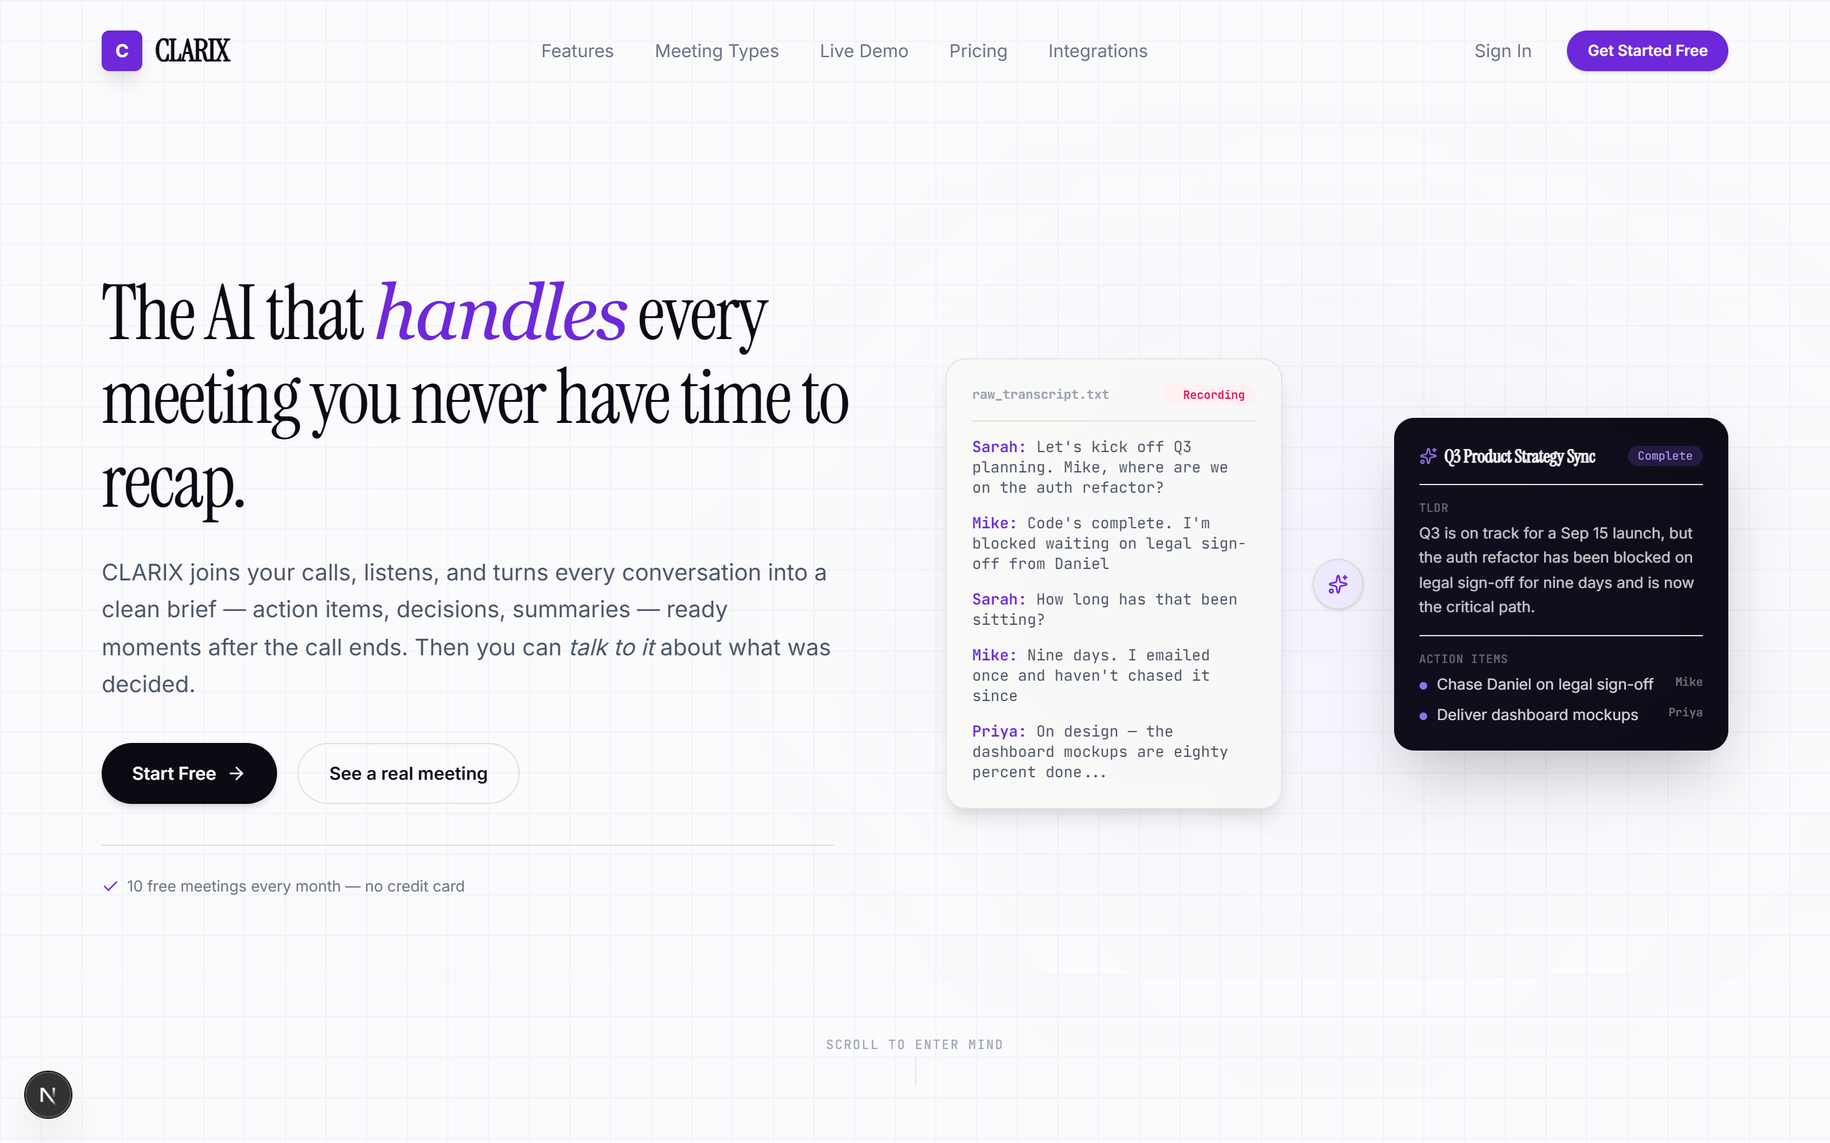
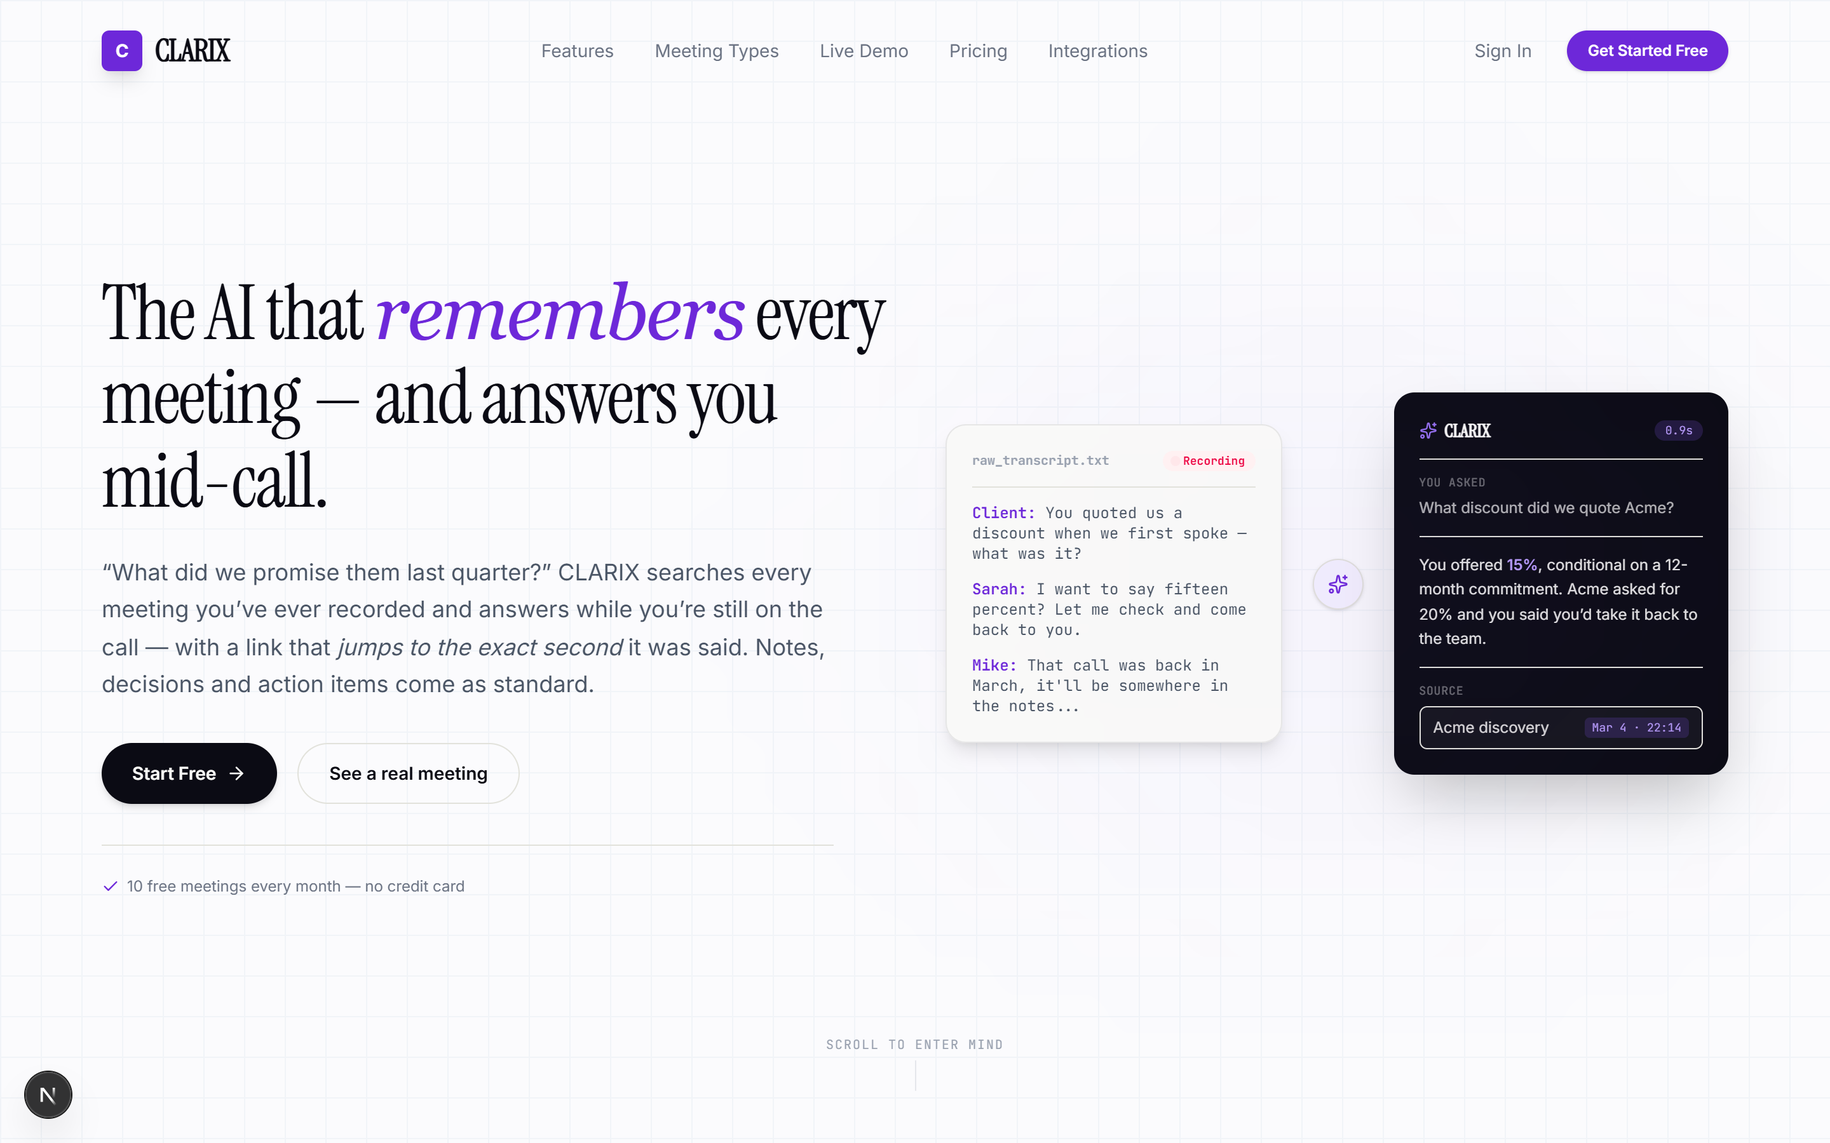
feat(marketing): lead with cross-meeting memory, not note-taking
Search "AI meeting notes without a bot" and the first page is Granola, Jamie,
Fellow and Krisp — all funded, all botless, all writing good summaries of the
call you are in. Both things the site led with were therefore worthless as
positioning: "no bot required" is a 2026 category convention, and "adapts to
every meeting type" describes a feature in a market where good summaries are
assumed. We were introducing ourselves with the one sentence four better-funded
competitors also say.

The thing none of them do is answer a question about a meeting from months ago
while you are still on the call, with a link that jumps to the second it was
said. That is already built and verified working end to end — the citation click
lands on the right moment. It was buried under the notetaker pitch.

Homepage now leads on it. The headline swaps "handles" for "remembers", the
subhead opens with the question a notetaker cannot answer, and the hero mock
demonstrates rather than describes: a client asks about a discount, nobody in
the room remembers, and CLARIX answers from a call in March with a
"Mar 4 - 22:14" source chip. The timestamp is the part rivals cannot copy — an
AI answer you cannot check is a liability when you are about to repeat it to a
client.

Metadata follows, since that is what search results and link previews show.

Product Hunt kit rewritten on the same claim. It now names the competitors
directly rather than pretending the category is empty, opens the maker comment
[…]

diff --git a/components/landing/zones/HeroZone.tsx b/components/landing/zones/HeroZone.tsx
@@ -33,11 +33,17 @@ export default function HeroZone() {
       {/* Main Hero Copy - Linked to fade out in Phase 0 */}
       <div className="hero-overlay-text w-full max-w-7xl mx-auto grid lg:grid-cols-12 gap-12 items-center my-auto z-20 pt-16">
         <div className="lg:col-span-6 flex flex-col items-start text-left">
+          {/* Positioned on cross-meeting memory, not note-taking. Every rival in
+              this category — Granola, Jamie, Fellow, Krisp — already writes good
+              botless summaries of the call you are in, so leading with that is
+              leading with the thing four funded competitors also say. What none
+              of them do is answer a question from meetings months old, mid-call,
+              with a link to the second it was said. */}
           <h1 className="font-display text-4xl sm:text-5xl lg:text-6xl font-normal leading-[1.1] tracking-tight text-ink">
-            The AI that <span className="italic text-violet-600 font-serif">handles</span> every meeting you never have time to recap.
+            The AI that <span className="italic text-violet-600 font-serif">remembers</span> every meeting — and answers you mid-call.
           </h1>
           <p className="mt-6 text-base sm:text-lg text-gray-600 leading-relaxed max-w-xl">
-            CLARIX joins your calls, listens, and turns every conversation into a clean brief — action items, decisions, summaries — ready moments after the call ends. Then you can <span className="italic">talk to it</span> about what was decided.
+            &ldquo;What did we promise them last quarter?&rdquo; CLARIX searches every meeting you&rsquo;ve ever recorded and answers while you&rsquo;re still on the call — with a link that <span className="italic">jumps to the exact second</span> it was said. Notes, decisions and action items come as standard.
           </p>
           <div className="mt-8 flex flex-wrap gap-4">
             <Link href="/sign-up" className="inline-flex items-center gap-2 bg-ink hover:bg-ink-2 text-paper text-sm font-semibold px-6 h-12 rounded-full shadow-md transition-all group">
@@ -69,16 +75,13 @@ export default function HeroZone() {
                 Recording
               </span>
             </div>
-            {/* Taken from the opening of the meeting at /demo — the "See a
-                real meeting" button sits right below this, so what it teases
-                has to be what it lands on. Keep in sync with
-                lib/site/sampleMeeting.ts. */}
+            {/* The moment the product exists for: a question nobody in the room
+                can answer, about a meeting months ago. The card to the right is
+                CLARIX answering it before the call moves on. */}
             <div className="space-y-3 text-gray-600">
-              <p><span className="text-violet-600 font-semibold">Sarah:</span> Let's kick off Q3 planning. Mike, where are we on the auth refactor?</p>
-              <p><span className="text-violet-600 font-semibold">Mike:</span> Code's complete. I'm blocked waiting on legal sign-off from Daniel</p>
-              <p><span className="text-violet-600 font-semibold">Sarah:</span> How long has that been sitting?</p>
-              <p><span className="text-violet-600 font-semibold">Mike:</span> Nine days. I emailed once and haven't chased it since</p>
-              <p><span className="text-violet-600 font-semibold">Priya:</span> On design — the dashboard mockups are eighty percent done...</p>
+              <p><span className="text-violet-600 font-semibold">Client:</span> You quoted us a discount when we first spoke — what was it?</p>
+              <p><span className="text-violet-600 font-semibold">Sarah:</span> I want to say fifteen percent? Let me check and come back to you.</p>
+              <p><span className="text-violet-600 font-semibold">Mike:</span> That call was back in March, it'll be somewhere in the notes...</p>
             </div>
           </div>
 
@@ -87,40 +90,37 @@ export default function HeroZone() {
             <Sparkles className="w-4 h-4 text-violet-600" />
           </div>
 
-          {/* Structured CLARIX Brief */}
+          {/* The overlay answering from a meeting five months back, while the
+              call above is still running. The timestamp chip is the part rivals
+              cannot copy: the answer is checkable, not just plausible. */}
           <div className="w-full max-w-[300px] p-5 rounded-2xl bg-ink text-paper shadow-2xl flex flex-col text-xs">
             <div className="flex items-center justify-between border-b border-paper/10 pb-3 mb-3">
               <span className="font-semibold text-paper flex items-center gap-1.5 font-display text-sm">
                 <Sparkles className="w-3.5 h-3.5 text-violet-400" />
-                Q3 Product Strategy Sync
+                CLARIX
               </span>
               <span className="bg-violet-500/20 text-violet-300 px-2 py-0.5 rounded-full text-[9px] font-mono">
-                Complete
+                0.9s
               </span>
             </div>
             <div className="space-y-3">
               <div>
-                <span className="text-[9px] font-mono text-paper/40 uppercase tracking-wider block mb-1">TLDR</span>
-                <p className="text-paper/80 leading-relaxed">Q3 is on track for a Sep 15 launch, but the auth refactor has been blocked on legal sign-off for nine days and is now the critical path.</p>
+                <span className="text-[9px] font-mono text-paper/40 uppercase tracking-wider block mb-1">You asked</span>
+                <p className="text-paper/70 leading-relaxed">What discount did we quote Acme?</p>
               </div>
               <div className="border-t border-paper/10 pt-3">
-                <span className="text-[9px] font-mono text-paper/40 uppercase tracking-wider block mb-1.5">Action Items</span>
-                <ul className="space-y-2">
-                  <li className="flex items-start gap-2">
-                    <span className="w-1.5 h-1.5 rounded-full bg-violet-400 mt-1.5 shrink-0" />
-                    <div className="flex justify-between w-full">
-                      <span className="text-paper/85">Chase Daniel on legal sign-off</span>
-                      <span className="text-paper/45 font-mono text-[9px]">Mike</span>
-                    </div>
-                  </li>
-                  <li className="flex items-start gap-2">
-                    <span className="w-1.5 h-1.5 rounded-full bg-violet-400 mt-1.5 shrink-0" />
-                    <div className="flex justify-between w-full">
-                      <span className="text-paper/85">Deliver dashboard mockups</span>
-                      <span className="text-paper/45 font-mono text-[9px]">Priya</span>
-                    </div>
-                  </li>
-                </ul>
+                <p className="text-paper/90 leading-relaxed">
+                  You offered <span className="text-violet-300 font-semibold">15%</span>, conditional on a 12-month commitment. Acme asked for 20% and you said you&rsquo;d take it back to the team.
+                </p>
+              </div>
+              <div className="border-t border-paper/10 pt-3">
+                <span className="text-[9px] font-mono text-paper/40 uppercase tracking-wider block mb-1.5">Source</span>
+                <div className="flex items-center gap-2 rounded-lg border border-paper/10 bg-paper/[0.04] px-2.5 py-2">
+                  <span className="min-w-0 flex-1 truncate text-paper/85">Acme discovery</span>
+                  <span className="shrink-0 rounded bg-violet-500/20 px-1.5 py-0.5 font-mono text-[9px] text-violet-300">
+                    Mar 4 · 22:14
+                  </span>
+                </div>
               </div>
             </div>
           </div>

diff --git a/app/page.tsx b/app/page.tsx
@@ -9,8 +9,12 @@ import { SiteFooter } from "@/components/site/site-footer";
 import { PlatformStrip } from "@/components/site/platform-strip";
 
 export const metadata: Metadata = {
-  title: { absolute: "CLARIX — Your AI Assistant for Every Meeting" },
-  description: "The AI that handles every meeting you never have time to recap. Transcribe, summarize, and turn any meeting into action.",
+  // Leads on memory, not note-taking. "AI meeting notes" is a saturated search
+  // term owned by funded incumbents; answering from meetings months old, with a
+  // jump to the second it was said, is the thing none of them do.
+  title: { absolute: "CLARIX — The AI that remembers every meeting" },
+  description:
+    "Ask what was decided months ago and get an answer mid-call, with a link to the exact second it was said. CLARIX searches every meeting you've recorded — notes, decisions and action items included.",
 };
 
 export default async function Home() {

diff --git a/marketing/producthunt-launch.md b/marketing/producthunt-launch.md
@@ -3,41 +3,41 @@
 Product page: https://www.producthunt.com/products/clarix?launch=clarix
 Status: **draft, not scheduled.**
 
-**Reworked around `/demo`** (live at https://www.clarixmeetings.com/demo). Product
-Hunt's audience sees a dozen AI notetakers a week and trusts none of them. You have
-no users, no testimonials, and no logos — so the only credibility available is
-*letting them read the actual output before they hand over anything*. That page is
-the launch's strongest asset and should be the first thing anyone touches.
+**Repositioned around cross-meeting memory.** The earlier version of this kit led
+with "AI meeting notes that adapt to every meeting type". That is a losing hand:
+search "AI meeting notes without a bot" and the first page is Granola, Jamie,
+Fellow and Krisp — all funded, all botless, all writing good summaries of the
+call you are in. Launching as a better notetaker means fighting on their ground
+with none of their budget.
+
+What none of them do is answer a question about a meeting from five months ago,
+**while you are still on the call**, with a link that jumps to the second it was
+said. That is the launch.
 
 **You must schedule and post this yourself** — I can't create accounts, schedule
 launches, or comment. Everything below is paste-ready.
 
 ---
 
-## Link — change this one field
-
-Point the launch link at **https://www.clarixmeetings.com/demo**, not the homepage.
-
-The homepage asks a stranger to believe a claim. The demo hands them a finished
-five-minute meeting — summary, decisions, action items with owners, transcript with
-timestamps — with no account, no install, no card. On a day when you're competing
-for eight seconds of attention, that difference is the launch.
+## Link
+Point the launch link at **https://www.clarixmeetings.com/demo** — real output,
+no signup, no install. On a day when you're competing for eight seconds of
+attention, letting someone judge the product beats asking them to believe a claim.
 
 ---
 
-## Tagline (49/60 — keep as-is, already live on the draft)
-AI meeting notes that adapt to every meeting type
+## Tagline (56/60 — REPLACE the draft's current text)
+The AI that remembers every meeting and answers mid-call
 
-> Deliberately unchanged. A tagline has to say what the product *is*; "see a real
-> meeting" says what the link *does*. Meeting-type detection is the actual
-> differentiator, so it stays here — the demo does its work in the link, the first
-> comment, and the gallery, where it has room to.
+> The old one — "AI meeting notes that adapt to every meeting type" — describes a
+> feature in a category where good summaries are table stakes. This one makes a
+> claim the incumbents can't.
 
-## Description (464/500 — replaces the draft's current text)
-Most AI notetakers write the same summary for every meeting. CLARIX detects the meeting type — standup, sales call, 1:1 — and shapes the notes around what matters for it: blockers for standups, objections and next steps for sales calls. Record in the browser (a bot is optional) or upload audio. Recaps go to Slack, notes to Notion, action items to Linear. See a real processed meeting before you sign up — no account needed. Free plan: 10 meetings/month, no card.
+## Description (477/500 — REPLACE the draft's current text)
+Every AI notetaker summarises the call you're in. CLARIX remembers all of them. Ask "what discount did we quote Acme?" or "what did we promise them last quarter?" and get an answer while you're still on the call — with a link that jumps to the exact second it was said, so you can check it rather than trust it. It records in the browser (no bot joins), and notes, decisions and action items come as standard. See a real processed meeting before signing up. Free: 10 meetings/month, no card.
 
 ## Launch tags
-Productivity · SaaS · Audio
+Productivity · SaaS · Artificial Intelligence
 
 ---
 
@@ -45,65 +45,67 @@ Productivity · SaaS · Audio
 
 Hey Product Hunt 👋
 
-Rather than ask you to take my word for it — **here's a real meeting CLARIX processed, no signup needed:** https://www.clarixmeetings.com/demo
+Every AI notetaker summarises the meeting you're in. That problem is solved — Granola, Jamie and Fellow all do it well, and I'm not going to pretend I do it better.
 
-That's the actual product screen, not a mockup. Read the summary, then check it against the transcript underneath and see whether it got it right. That's the only pitch I've got, and I'd rather you judge the output than the copy.
+The problem I kept having was different. A client asks *"what discount did you quote us back in March?"* — and the answer is somewhere in a transcript I'll never scroll through, so I say "let me check and come back to you." The meeting ends, the moment's gone, and I've lost a little credibility for no reason.
 
-I built CLARIX because every notetaker I tried wrote the *same* summary whether it was a 15-minute standup or an hour-long sales call — generic bullets that missed the thing that actually mattered. CLARIX detects the meeting type and shapes the notes to fit: blockers and owners for standups, objections and next steps for sales calls, decisions and follow-ups for 1:1s.
+**CLARIX answers that mid-call.** It searches every meeting you've ever recorded and gives you the answer in about a second — with a link that jumps to the exact second it was said, so you can verify it instead of trusting it. That last part matters more than it sounds: an AI answer you can't check is a liability when you're about to repeat it to a client.
 
-A few things that make it different:
-• **No bot required** — it records in the browser, or you upload audio. No awkward "CLARIX has joined the call."
-• **Every claim is checkable** — each key point links back to the moment in the transcript it came from.
-• **Goes where your work lives** — Slack, Notion, Linear.
-• **Actually free to try** — 10 meetings/month, no credit card.
+Here's a real processed meeting, no signup: https://www.clarixmeetings.com/demo
 
-I'm a solo maker and CLARIX has no users yet — you'd genuinely be the first. So the feedback I want most: **open the demo and tell me where the summary is wrong.** That's more useful to me today than an upvote.
+Other things worth knowing:
+• **No bot joins your call.** It records in the browser, or you upload audio.
+• **Notes, decisions and action items** come as standard — table stakes, and included.
+• **Free to try** — 10 meetings/month, no credit card.
+
+I'm a solo maker and CLARIX has no users yet — you'd genuinely be the first. The feedback I want most: **open the demo and tell me where the summary is wrong.** More useful to me today than an upvote.
 
 ---
 
 ## Gallery — order matters
 
-Screenshots are staged in `marketing/assets/`. Lead with the demo; it is the argument.
+Screenshots are in `marketing/assets/`. Lead with the memory claim, not the notes.
 
-1. **`demo-summary.png`** — the demo's summary view: TL;DR, action items with owners
-   and due dates, key decisions, open questions. Caption:
-   *"Real output. Read it yourself at clarixmeetings.com/demo — no signup."*
-2. **`demo-transcript.png`** — transcript with speaker labels and timestamped key
-   points, colour-coded (DECISION / CONCERN / COMMITMENT). Caption:
-   *"Every point links back to the second it was said."*
-3. **`home-hero.png`** — raw transcript → structured brief. Caption:
-   *"What goes in, and what comes back."*
-4. Optional 4th: a meeting-type shot showing type-specific fields, if you grab one.
+1. **`home-hero.png`** — the question nobody in the room can answer, and CLARIX
+   answering it from a meeting five months back with a `Mar 4 · 22:14` source.
+   Caption: *"Asked mid-call. Answered from a meeting in March."*
+2. **`demo-transcript.png`** — timestamped key points, colour-coded
+   (DECISION / CONCERN / COMMITMENT). Caption:
+   *"Every answer links back to the second it was said — check it, don't trust it."*
+3. **`demo-summary.png`** — summary, action items with owners, decisions.
+   Caption: *"Notes and action items come as standard. Real output — read it at
+   clarixmeetings.com/demo, no signup."*
 
 ---
 
 ## Pre-launch checklist
-- [x] Tagline (unchanged, live on draft)
-- [ ] **Description** — paste the updated one above over the draft's current text
+- [ ] **Tagline** — replace with the one above
+- [ ] **Description** — replace with the one above
 - [ ] **Link** — change to https://www.clarixmeetings.com/demo
 - [x] Maker's first comment written (above)
-- [ ] Gallery — upload the three PNGs from `marketing/assets/` in the order above
-- [ ] Shoutouts — add by hand: Next.js, Clerk, Stripe, Supabase
-- [ ] Video — optional; the demo link does this job better than a video will
+- [ ] Gallery — upload the three PNGs in the order above
+- [ ] Shoutouts — Next.js, Clerk, Stripe, Supabase
 - [ ] X account handle — fill the "x account of the launch" field
 - [ ] Schedule — Tuesday–Thursday, 12:01 AM PT
 
 ## Pre-flight (the day before)
-- [ ] Open https://www.clarixmeetings.com/demo in a private window. It must load with
-      no signup and no errors — it is the entire launch if it works, and the entire
-      launch if it doesn't.
-- [ ] Confirm sign-up works end to end in a private window. Traffic that converts and
-      then hits a broken funnel is worse than no traffic.
-- [ ] Decide what you say when someone asks "how many users?" — the honest answer
-      ("none yet, you'd be the first") plays *well* on PH. Don't improvise it.
+- [ ] Open https://www.clarixmeetings.com/demo in a private window — no signup,
+      no errors. It is the entire launch if it works, and the entire launch if
+      it doesn't.
+- [ ] Confirm sign-up works end to end in a private window.
+- [ ] Have an answer ready for **"how is this different from Granola?"** — the
+      question you'll be asked most. One sentence: *Granola summarises the
+      meeting you're in; CLARIX answers questions about all of them, mid-call,
+      with a timestamp you can check.*
+- [ ] Have an answer ready for "how many users?" — "none yet, you'd be the
+      first" plays well on PH. Don't improvise it.
 
 ## Launch-day playbook
 - Go live 12:01 AM PT; post the maker's comment immediately and pin it.
 - Reply to every comment within minutes — engagement drives ranking.
-- When someone is sceptical, **send them to the demo** instead of arguing. That is
-  what it's for.
-- Share the PH link (not the website) to X, LinkedIn, and any communities — asking
+- When someone is sceptical, **send them to the demo** rather than arguing.
+- Share the PH link (not the website) to X, LinkedIn, and communities — asking
   for support without saying "upvote" (PH forbids vote-begging).
 - Ranking is cumulative to 11:59 PT; keep going all day.
-- Log every piece of feedback. First-launch feedback from strangers is worth more
-  than the traffic.
+- Log every piece of feedback. First-launch feedback from strangers is worth
+  more than the traffic.
